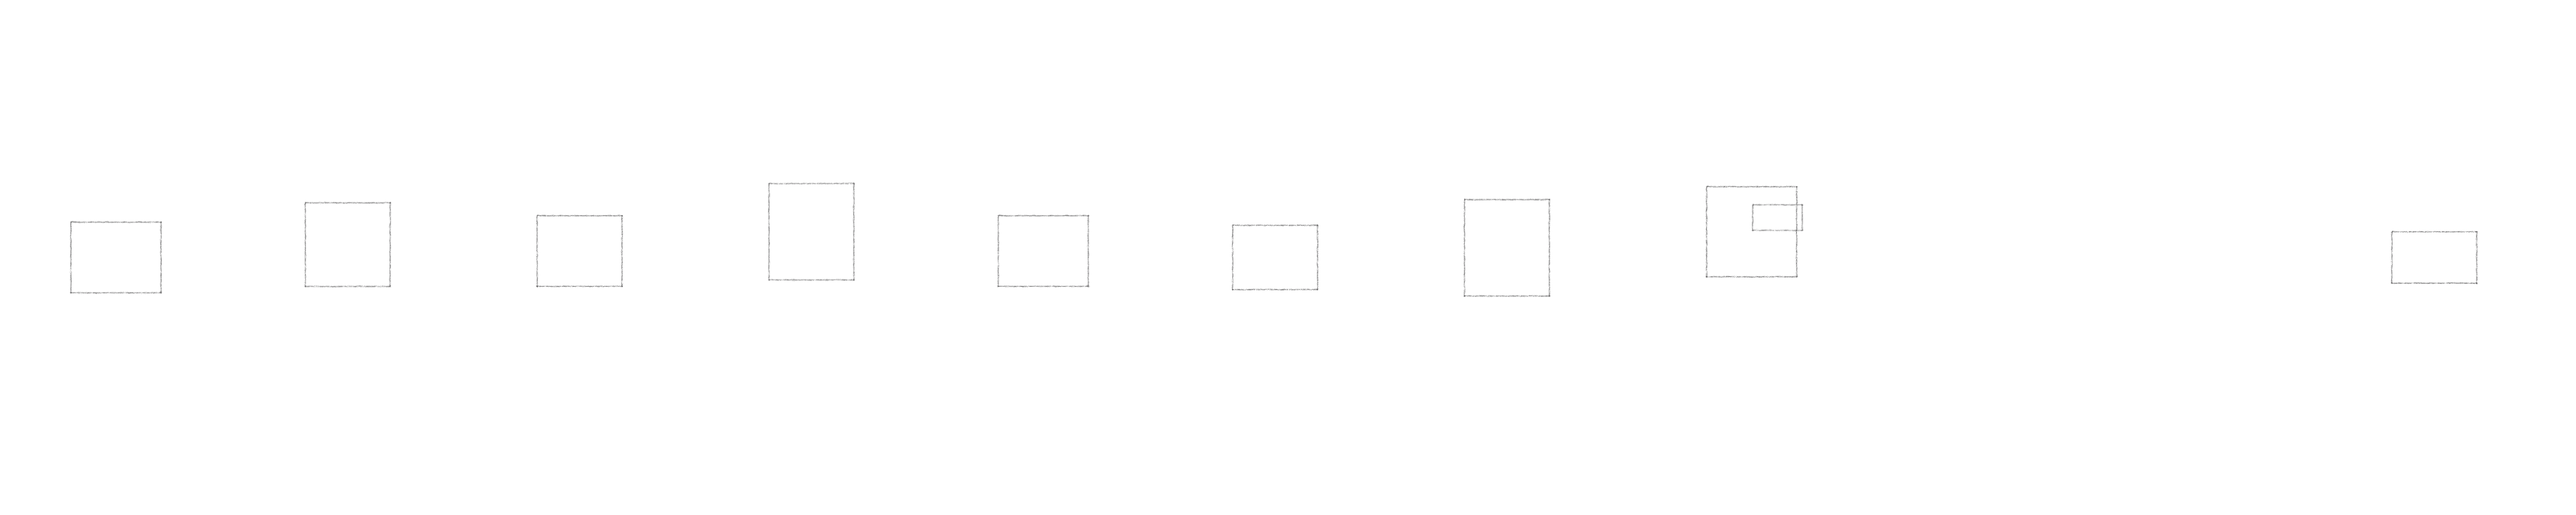
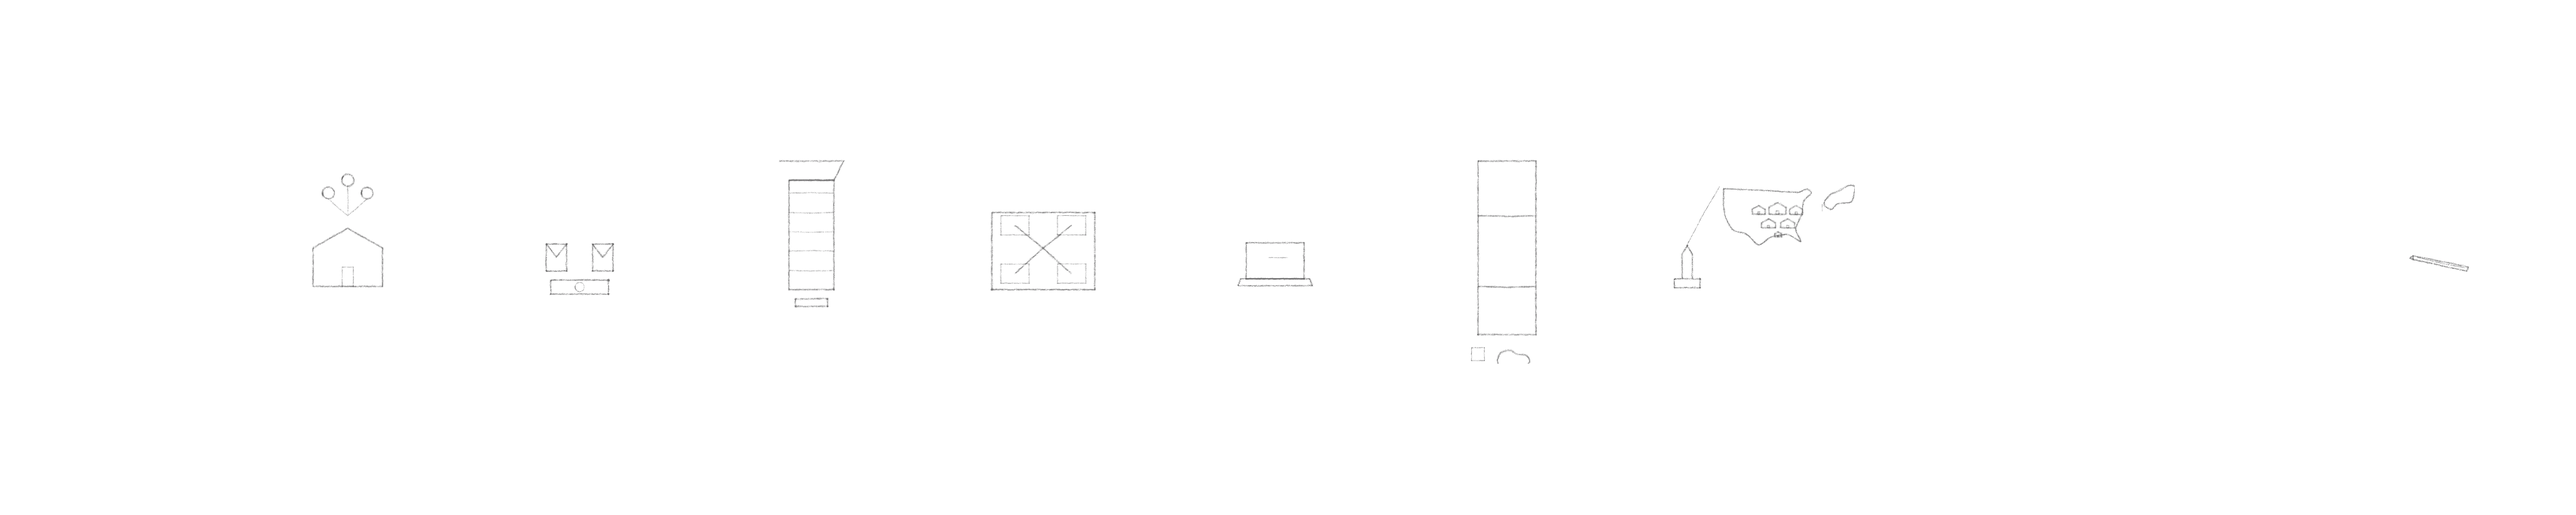
feat(v4): chapter 1, the line (B1): detours, supers, glimpses, cues (#12)
Claude-Session: https://claude.ai/code/session_01Ebpkjvf4XR1aGrzX6GP5FB

diff --git a/src/chapters/line/geometry.ts b/src/chapters/line/geometry.ts
@@ -1,0 +1,145 @@
+// geometry.ts — chapter 1's line: the film's anchors with the four detours (heart rate, calendar, passport, key) drawn
+// into the stretch between 7.0 and 16.5 (BIBLE4 §1.3, §5.1). Every sketch is part of the one stroke: the head draws it,
+// holds half a second on its last point, and moves on. Chapter 1 starts at master 0, so local seconds are master seconds.
+import {line} from '../../beats4';
+import {buildLine, masterAnchors, type LineGeometry, type TimedAnchor} from '../../endless/lineGeometry';
+import {LINE_ANCHORS, type Point} from '../../sheet4';
+
+const BASE = 4000;
+/** The head creeps this far during a hold so the path never has a zero-length segment. */
+const HOLD_CREEP = 2;
+/** Arc points per full turn; a corner sharper than CORNER_TURN gets flanking points so the line's fillet stays small. */
+const ARC_STEPS = 28;
+const CORNER_TURN = 0.7;
+const CORNER_TIGHT = 8;
+
+type Pts = readonly Point[];
+const at = (x: number, y: number): Point => [x, y];
+
+/** Keep corners crisp: the line rounds each corner by up to 0.4 of its shorter leg, so sharp turns get a point a few px either side. */
+const crisp = (pts: Pts): Pts =>
+  pts.flatMap((p, i) => {
+    const a = pts[i - 1];
+    const b = pts[i + 1];
+    if (!a || !b) return [p];
+    const [ux, uy] = [p[0] - a[0], p[1] - a[1]];
+    const [vx, vy] = [b[0] - p[0], b[1] - p[1]];
+    const lu = Math.hypot(ux, uy);
+    const lv = Math.hypot(vx, vy);
+    if (lu === 0 || lv === 0) return [p];
+    const turn = Math.acos(Math.min(1, Math.max(-1, (ux * vx + uy * vy) / (lu * lv))));
+    if (turn < CORNER_TURN || Math.min(lu, lv) <= CORNER_TIGHT * 2.5) return [p];
+    return [at(p[0] - (ux / lu) * CORNER_TIGHT, p[1] - (uy / lu) * CORNER_TIGHT), p, at(p[0] + (vx / lv) * CORNER_TIGHT, p[1] + (vy / lv) * CORNER_TIGHT)];
+  });
+
+/** Spread the points of a detour over its draw window, in proportion to the distance between them. */
+const timed = (pts: Pts, from: number, to: number): readonly TimedAnchor[] => {
+  const legs = pts.slice(1).map((p, i) => Math.hypot(p[0] - (pts[i] as Point)[0], p[1] - (pts[i] as Point)[1]));
+  const total = legs.reduce((a, b) => a + b, 0) || 1;
+  let run = 0;
+  return pts.map((p, i) => {
+    if (i > 0) run += legs[i - 1] as number;
+    return {t: from + (run / total) * (to - from), p};
+  });
+};
+
+/** One beat of an ECG, 84 px wide: flat, a small bump, the spike up and down through the baseline, a low swell, flat. */
+const beatAt = (x: number, amp: number): Pts => [
+  [0, 0], [10, -0.18], [20, 0], [31, 0.12], [39, -1], [49, 0.35], [56, 0], [68, -0.22], [84, 0],
+].map(([dx, dy]) => at(x + (dx as number), BASE + (dy as number) * amp));
+/** x 1400-1700: three spikes of amplitude 120. */
+const heartRate = (): Pts => [at(1400, BASE), ...[1420, 1505, 1590].flatMap((x) => beatAt(x, 120)), at(1700, BASE)];
+
+/** x 1800-2100: a 4x3 calendar grid (300 x 220) as one zigzag: five verticals, then the top, two inner rules and the bottom. */
+const CAL = {x0: 1800, x1: 2100, top: BASE - 220, cols: 4, rows: 3} as const;
+const calendar = (): Pts => {
+  const step = (CAL.x1 - CAL.x0) / CAL.cols;
+  const xs = Array.from({length: CAL.cols + 1}, (_, i) => CAL.x0 + i * step);
+  const verticals = xs.flatMap((x, i) => (i % 2 === 0 ? [at(x, BASE), at(x, CAL.top)] : [at(x, CAL.top), at(x, BASE)]));
+  const rule = (k: number): number => CAL.top + (k * (BASE - CAL.top)) / CAL.rows;
+  return [
+    ...verticals,
+    at(CAL.x1, CAL.top), at(CAL.x0, CAL.top),
+    at(CAL.x0, rule(1)), at(CAL.x1, rule(1)),
+    at(CAL.x1, rule(2)), at(CAL.x0, rule(2)),
+    at(CAL.x0, BASE), at(CAL.x1, BASE),
+  ];
+};
+
+/** Points round a circle from angle `from` to `to` (radians, y down: increasing = clockwise on screen). */
+const arc = (cx: number, cy: number, r: number, from: number, to: number): Pts => {
+  const n = Math.max(2, Math.ceil((Math.abs(to - from) / (Math.PI * 2)) * ARC_STEPS));
+  return Array.from({length: n + 1}, (_, i) => {
+    const a = from + ((to - from) * i) / n;
+    return at(cx + r * Math.cos(a), cy + r * Math.sin(a));
+  });
+};
+
+/** x 2200-2500: a passport 260 x 340 as one loop (cover, then the emblem circle), out along the baseline. */
+const passport = (): Pts => {
+  const x0 = 2220;
+  const x1 = 2480;
+  const top = BASE - 340;
+  const cx = (x0 + x1) / 2;
+  const r = 52;
+  const cy = top + 130;
+  return [
+    at(2200, BASE), at(x0, BASE), at(x0, top), at(x1, top), at(x1, BASE), at(cx, BASE),
+    at(cx, cy + r), ...arc(cx, cy, r, Math.PI / 2, Math.PI / 2 + Math.PI * 2).slice(1), at(cx, BASE), at(2500, BASE),
+  ];
+};
+
+/** x 2600-2900: a key: ring r 40, shaft 200, three teeth. The ring is entered from the baseline and closed on the way out. */
+const key = (): Pts => {
+  const r = 40;
+  const cx = 2640;
+  const cy = BASE - 100;
+  const rim = Math.asin(16 / r); // where the shaft's lower edge meets the ring
+  const end = cx + r + 200;
+  const edge = cy + 16;
+  return [
+    at(2600, BASE), at(cx, BASE), at(cx, cy + r),
+    ...arc(cx, cy, r, Math.PI / 2, Math.PI * 2).slice(1), // bottom, left, top, to the right
+    at(end, cy), at(end, edge), // along the top of the shaft, down the end
+    at(end, edge + 20), at(end - 22, edge + 20), at(end - 22, edge), at(end - 54, edge), at(end - 54, edge + 14), at(end - 78, edge + 14),
+    at(end - 78, edge), at(cx + Math.cos(rim) * r, edge), // the three teeth, back to the ring
+    ...arc(cx, cy, r, rim, Math.PI / 2).slice(1), // down the ring's lower right, to the bottom
+    at(cx, BASE), at(2900, BASE),
+  ];
+};
+
+/** A hold: the head stays on its last point for `seconds`. */
+const hold = (last: TimedAnchor, until: number): readonly TimedAnchor[] => [
+  {t: until, p: at(last.p[0] + HOLD_CREEP, last.p[1])},
+];
+
+const sketch = (pts: Pts, d: {readonly draw: {readonly from: number; readonly to: number}; readonly hold: number}): readonly TimedAnchor[] => {
+  const drawn = timed(crisp(pts), d.draw.from, d.draw.to);
+  return [...drawn, ...hold(drawn[drawn.length - 1] as TimedAnchor, d.hold)];
+};
+
+const SHAPES: Record<(typeof line.detours)[number]['id'], () => Pts> = {'heart-rate': heartRate, calendar, passport, key};
+
+/** Chapter 1's own anchors (master time = local time here). */
+export const lineAnchors = (): readonly TimedAnchor[] => {
+  const given = LINE_ANCHORS.line.map((a) => ({t: a.t, p: a.p, note: a.note}));
+  const before = given.filter((a) => a.t < line.detours[0].draw.from);
+  const after = given.filter((a) => a.t >= 18.0);
+  const detours = line.detours.flatMap((d) => sketch(SHAPES[d.id](), d));
+  return [...before, ...detours, ...after];
+};
+
+/** The whole film's anchors with chapter 1 replaced by the above (the remaining chapters are untouched). */
+export const filmAnchorsWithDetours = (): readonly TimedAnchor[] => {
+  const mine = lineAnchors();
+  const last = mine[mine.length - 1] as TimedAnchor;
+  const rest = masterAnchors().filter((a) => a.t > last.t || (a.t === last.t && (a.p[0] !== last.p[0] || a.p[1] !== last.p[1])));
+  return [...mine, ...rest];
+};
+
+let built: LineGeometry | null = null;
+/** The line geometry for `PencilLine geometry={...}`: the film's line with chapter 1's detours drawn in. Built once. */
+export const lineGeometry = (): LineGeometry => {
+  built = built ?? buildLine(filmAnchorsWithDetours());
+  return built;
+};

diff --git a/src/chapters/line/glimpses.ts b/src/chapters/line/glimpses.ts
@@ -1,0 +1,89 @@
+// glimpses.ts — the far view's glimpses (BIBLE4 §1.5, §5.1): each chapter's hero shape as ONE rough pass, in sheet px, so the
+// 0:18 pull-back shows real marks across the sheet (a house, letters, a machine, a board, a laptop, a phone cutaway, a rocket
+// and a map, a village, the pencil). They are sketched before the line gets there, which is honest: a rough comes first.
+import {type ChapterId} from '../../film4';
+import {handCircle, handLine, handPath, handPolyline, handRect, sequence, stroke, type SketchSpec} from '../../paper';
+import {REGIONS, type Point} from '../../sheet4';
+
+/** Heavy enough to register at 1/8 scale; the engine's rough pass makes it the lighter graphite the bible asks for. */
+const OPTS = {width: 24, rough: true, pressure: 0.6} as const;
+const THIN = {width: 14, rough: true, pressure: 0.5} as const;
+
+/** A shape is built lazily so its sheet coordinates can be moved into region-local px before the hand toolkit sees them. */
+type Shape = {readonly make: (ox: number, oy: number) => string; readonly thin?: boolean};
+const move = (pts: readonly Point[], ox: number, oy: number): [number, number][] => pts.map(([x, y]) => [x - ox, y - oy]);
+const poly = (pts: readonly Point[], seed: number): Shape => ({make: (ox, oy) => handPolyline(move(pts, ox, oy), seed)});
+const rect = (x: number, y: number, w: number, h: number, seed: number, thin = false): Shape => ({make: (ox, oy) => handRect(x - ox, y - oy, w, h, seed), thin});
+const line = (x1: number, y1: number, x2: number, y2: number, seed: number, thin = true): Shape => ({make: (ox, oy) => handLine(x1 - ox, y1 - oy, x2 - ox, y2 - oy, seed), thin});
+const ring = (cx: number, cy: number, r: number, seed: number, thin = false): Shape => ({make: (ox, oy) => handCircle(cx - ox, cy - oy, r, r, seed), thin});
+const blob = (pts: readonly Point[], seed: number): Shape => ({make: (ox, oy) => handPath(move(pts, ox, oy), seed, {wobble: 6, smooth: 0.8})});
+
+const house = (cx: number, ground: number, w: number, h: number, seed: number): readonly Shape[] => [
+  poly([[cx - w / 2, ground], [cx - w / 2, ground - h], [cx, ground - h - w * 0.28], [cx + w / 2, ground - h], [cx + w / 2, ground], [cx - w / 2, ground]], seed),
+  rect(cx - w * 0.08, ground - h * 0.5, w * 0.16, h * 0.5, seed + 1, true),
+];
+
+/** Hero shapes in sheet px (BIBLE4 §1.2). */
+const SHAPES: Partial<Record<ChapterId, readonly Shape[]>> = {
+  mayasHouse: [
+    ...house(5400, 4450, 1080, 600, 11),
+    ring(5100, 3000, 90, 12), ring(5400, 2800, 90, 13), ring(5700, 3000, 90, 14),
+    line(5100, 3090, 5400, 3350, 15), line(5700, 3090, 5400, 3350, 16), line(5400, 2890, 5400, 3350, 17),
+  ],
+  theNo: [
+    rect(8480, 3790, 320, 420, 21), rect(9200, 3790, 320, 420, 22),
+    poly([[8480, 3790], [8640, 3990], [8800, 3790]], 23), poly([[9200, 3790], [9360, 3990], [9520, 3790]], 24),
+    rect(8550, 4350, 900, 220, 25), ring(9000, 4460, 70, 26, true),
+  ],
+  filterMachine: [
+    poly([[12100, 2500], [13100, 2500], [12950, 2800], [12250, 2800]], 31),
+    rect(12250, 2800, 700, 1700, 32),
+    ...[3000, 3300, 3600, 3900, 4200].map((y, i) => line(12250, y, 12950, y, 33 + i)),
+    rect(12350, 4640, 500, 120, 39),
+  ],
+  researchBoard: [
+    rect(15400, 3300, 1600, 1200, 41),
+    rect(15540, 3350, 440, 300, 42, true), rect(16420, 3350, 440, 300, 43, true), rect(15540, 4100, 440, 300, 44, true), rect(16420, 4100, 440, 300, 45, true),
+    line(15760, 3500, 16640, 4250, 46, false), line(16640, 3500, 15760, 4250, 47, false),
+  ],
+  nameAndLook: [
+    rect(19350, 3770, 900, 560, 51),
+    poly([[19260, 4330], [20340, 4330], [20380, 4440], [19220, 4440], [19260, 4330]], 52),
+    line(19700, 4000, 20000, 4000, 53),
+  ],
+  engineRoom: [
+    rect(22950, 2500, 900, 2700, 61),
+    line(22950, 3350, 23850, 3350, 62, false), line(22950, 4450, 23850, 4450, 63, false),
+    blob([[23250, 5600], [23300, 5480], [23450, 5440], [23550, 5500], [23700, 5520], [23760, 5620], [23650, 5680], [23300, 5690], [23250, 5600]], 64),
+    rect(22850, 5400, 200, 200, 65, true),
+  ],
+  launch: [
+    rect(26000, 4330, 400, 140, 71),
+    poly([[26120, 4330], [26120, 3950], [26200, 3810], [26280, 3950], [26280, 4330]], 72),
+    blob([[26760, 2930], [27350, 2960], [27900, 2990], [28060, 2930], [28120, 3000], [28010, 3130], [27980, 3330], [27880, 3560], [27960, 3760], [27760, 3640], [27500, 3690], [27300, 3800], [27120, 3640], [26900, 3560], [26780, 3300], [26760, 2930]], 73),
+    blob([[28330, 3120], [28420, 3020], [28560, 2960], [28700, 2880], [28800, 2900], [28760, 3120], [28640, 3160], [28520, 3170], [28440, 3250], [28330, 3200], [28330, 3120]], 74),
+    line(26200, 3800, 26700, 2900, 75, true),
+  ],
+  village: [
+    ...house(27600, 3330, 270, 110, 81),
+    ...house(27310, 3330, 200, 80, 82), ...house(27890, 3330, 200, 80, 83),
+    ...house(27460, 3540, 220, 80, 84), ...house(27760, 3540, 220, 80, 85),
+    ...house(27610, 3680, 110, 50, 86), ...house(28380, 3280, 160, 100, 87),
+  ],
+  providedFor: [
+    poly([[37420, 4005], [37470, 4030], [37470, 3975], [37420, 4005]], 91),
+    poly([[37470, 4030], [38300, 4210], [38330, 4150], [37470, 3975]], 92),
+    line(37540, 4000, 38280, 4160, 93),
+  ],
+};
+
+/** The chapter's glimpse as an engine page, region-local px (the region's top-left is the origin); null for chapters without one. */
+export const glimpseSpecFor = (id: ChapterId): SketchSpec | null => {
+  const shapes = SHAPES[id];
+  if (!shapes) return null;
+  const r = REGIONS[id];
+  const ox = r.centre[0] - r.size[0] / 2;
+  const oy = r.centre[1] - r.size[1] / 2;
+  const items = shapes.map((s, i) => stroke(`g${i}`, s.make(ox, oy), s.thin ? THIN : OPTS));
+  return {id: `glimpse-${id}`, ...sequence(items, 0, 1)};
+};

diff --git a/src/chapters/line/Chapter.tsx b/src/chapters/line/Chapter.tsx
@@ -1,5 +1,36 @@
+// Chapter.tsx — chapter 1, `line` 0:00-0:30 (BIBLE4 §5.1). The art is almost nothing: the line is the chapter. It draws the
+// super's baseline, the four sketches and the corner on its own (geometry.ts); here live the handwriting that rides above it,
+// the opening black, and the screen super at the pull-back.
 import React from 'react';
-import {ChapterStub} from '../ChapterStub';
+import {AbsoluteFill} from 'remotion';
+import {line, SUPERS} from '../../beats4';
+import {ChapterShell, Super, superFromBeat, useChapter} from '../../kit';
+import {lineGeometry} from './geometry';
 
-/** Stub: replaced by the chapter owner. Keep the export name and the no-props signature. */
-export const Chapter: React.FC = () => <ChapterStub id="line" />;
+/** Baseline and left edge of "Every app starts as a line." (BIBLE4 §5.1): above the line, which rises to y 3910 to carry it. */
+const SUPER_AT = [290, 3880] as const;
+
+const [superOne, superTwo] = SUPERS.line;
+if (!superOne || !superTwo) throw new Error('line: two supers expected');
+
+/** The handwriting takes the whole 3 s the line spends under it (1.5-4.5), not the kit's 11-characters-a-second default. */
+const SUPER_WRITE = line.superWrite.to - line.superWrite.from;
+
+export const Art: React.FC = () => (
+  <Super {...superFromBeat(superOne, {sheet: [SUPER_AT[0], SUPER_AT[1]], align: 'left'}, {write: SUPER_WRITE})} />
+);
+
+/** Black until the paper is there under the lamp (0.5): a cut, no warm-up. */
+const Black: React.FC = () => {
+  const {t} = useChapter('line');
+  return t < line.black.to ? <AbsoluteFill style={{background: '#000'}} /> : null;
+};
+
+export const Overlay: React.FC = () => (
+  <>
+    <Super {...superFromBeat(superTwo, {screen: 'super'})} />
+    <Black />
+  </>
+);
+
+export const Chapter: React.FC = () => <ChapterShell id="line" art={<Art />} overlay={<Overlay />} line={{geometry: lineGeometry()}} />;

diff --git a/src/endless/chapterMark.tsx b/src/endless/chapterMark.tsx
@@ -10,6 +10,7 @@ import {compileSketch} from '../paper/marks/compile';
 import {PencilCanvas} from '../paper/render/PencilCanvas';
 import type {SketchSpec} from '../paper/types';
 import {REGIONS} from '../sheet4';
+import {glimpseSpecFor} from '../chapters/line/glimpses';
 import {SheetContext} from './sheetContext';
 
 /** The mark's drawing surface in mark px, and where it sits (its top-left) in sheet px. */
@@ -83,7 +84,9 @@ export const ChapterMark: React.FC<{id: ChapterId; finished?: boolean}> = ({id, 
 
 /** The glimpse of a region, region-local, for the far image. */
 export const Glimpse: React.FC<{id: ChapterId}> = ({id}) => {
-  const marks = useMemo(() => compileSketch(glimpseSpec(id)), [id]);
+  // Chapter 1's own sketches are drawn by the line; it has no glimpse (the line is visible at every zoom).
+  const marks = useMemo(() => compileSketch(glimpseSpecFor(id) ?? glimpseSpec(id)), [id]);
   const r = REGIONS[id];
+  if (id === 'line') return null;
   return <PencilCanvas marks={marks} progress={1} width={r.size[0]} height={r.size[1]} density={0.5} />;
 };

diff --git a/src/chapters/line/cues.ts b/src/chapters/line/cues.ts
@@ -1,0 +1,18 @@
+// cues.ts — chapter 1's COMPLETE foley list (module-local seconds), from BIBLE4 §5.1 and §7.1: the pencil touches down at
+// 0.5 and then one continuous graphite stroke to the corner at 30.0, leaning lighter (0.7) while the line writes the super.
+// 0-6 s is pencil only, dry and close; the music enters at 6.0 and is not foley. The super's handwriting is the same pencil
+// as the line, so it adds no cue of its own.
+import type {Cue, ModuleCues} from '../../audio/cues';
+import {line} from '../../beats4';
+
+const END = 30.0;
+const PRESSURE = {normal: 1.0, writing: 0.7} as const;
+
+const stroke = (t: number, to: number, pressure: number): Cue => ({kind: 'stroke', t, dur: to - t, pressure});
+
+export const cues: ModuleCues = [
+  {kind: 'hit', t: line.pencilDown, name: 'pencil_down'},
+  stroke(line.lineStarts, line.superWrite.from, PRESSURE.normal),
+  stroke(line.superWrite.from, line.superWrite.to, PRESSURE.writing),
+  stroke(line.superWrite.to, END, PRESSURE.normal),
+];

diff --git a/src/chapters/line/previews.ts b/src/chapters/line/previews.ts
@@ -1,0 +1,4 @@
+import type {PreviewSpec} from '../../previewTypes';
+
+/** No extra stills: `Chapter-line-wide` / `-tall` and `SheetFarAlpha-rough` (the glimpses) cover the chapter. */
+export const previews: readonly PreviewSpec[] = [];

diff --git a/src/chapters/line/index.ts b/src/chapters/line/index.ts
@@ -1,1 +1,4 @@
-export {Chapter} from './Chapter';
+export {Art, Chapter, Overlay} from './Chapter';
+export {cues} from './cues';
+export {lineGeometry} from './geometry';
+export {previews} from './previews';
